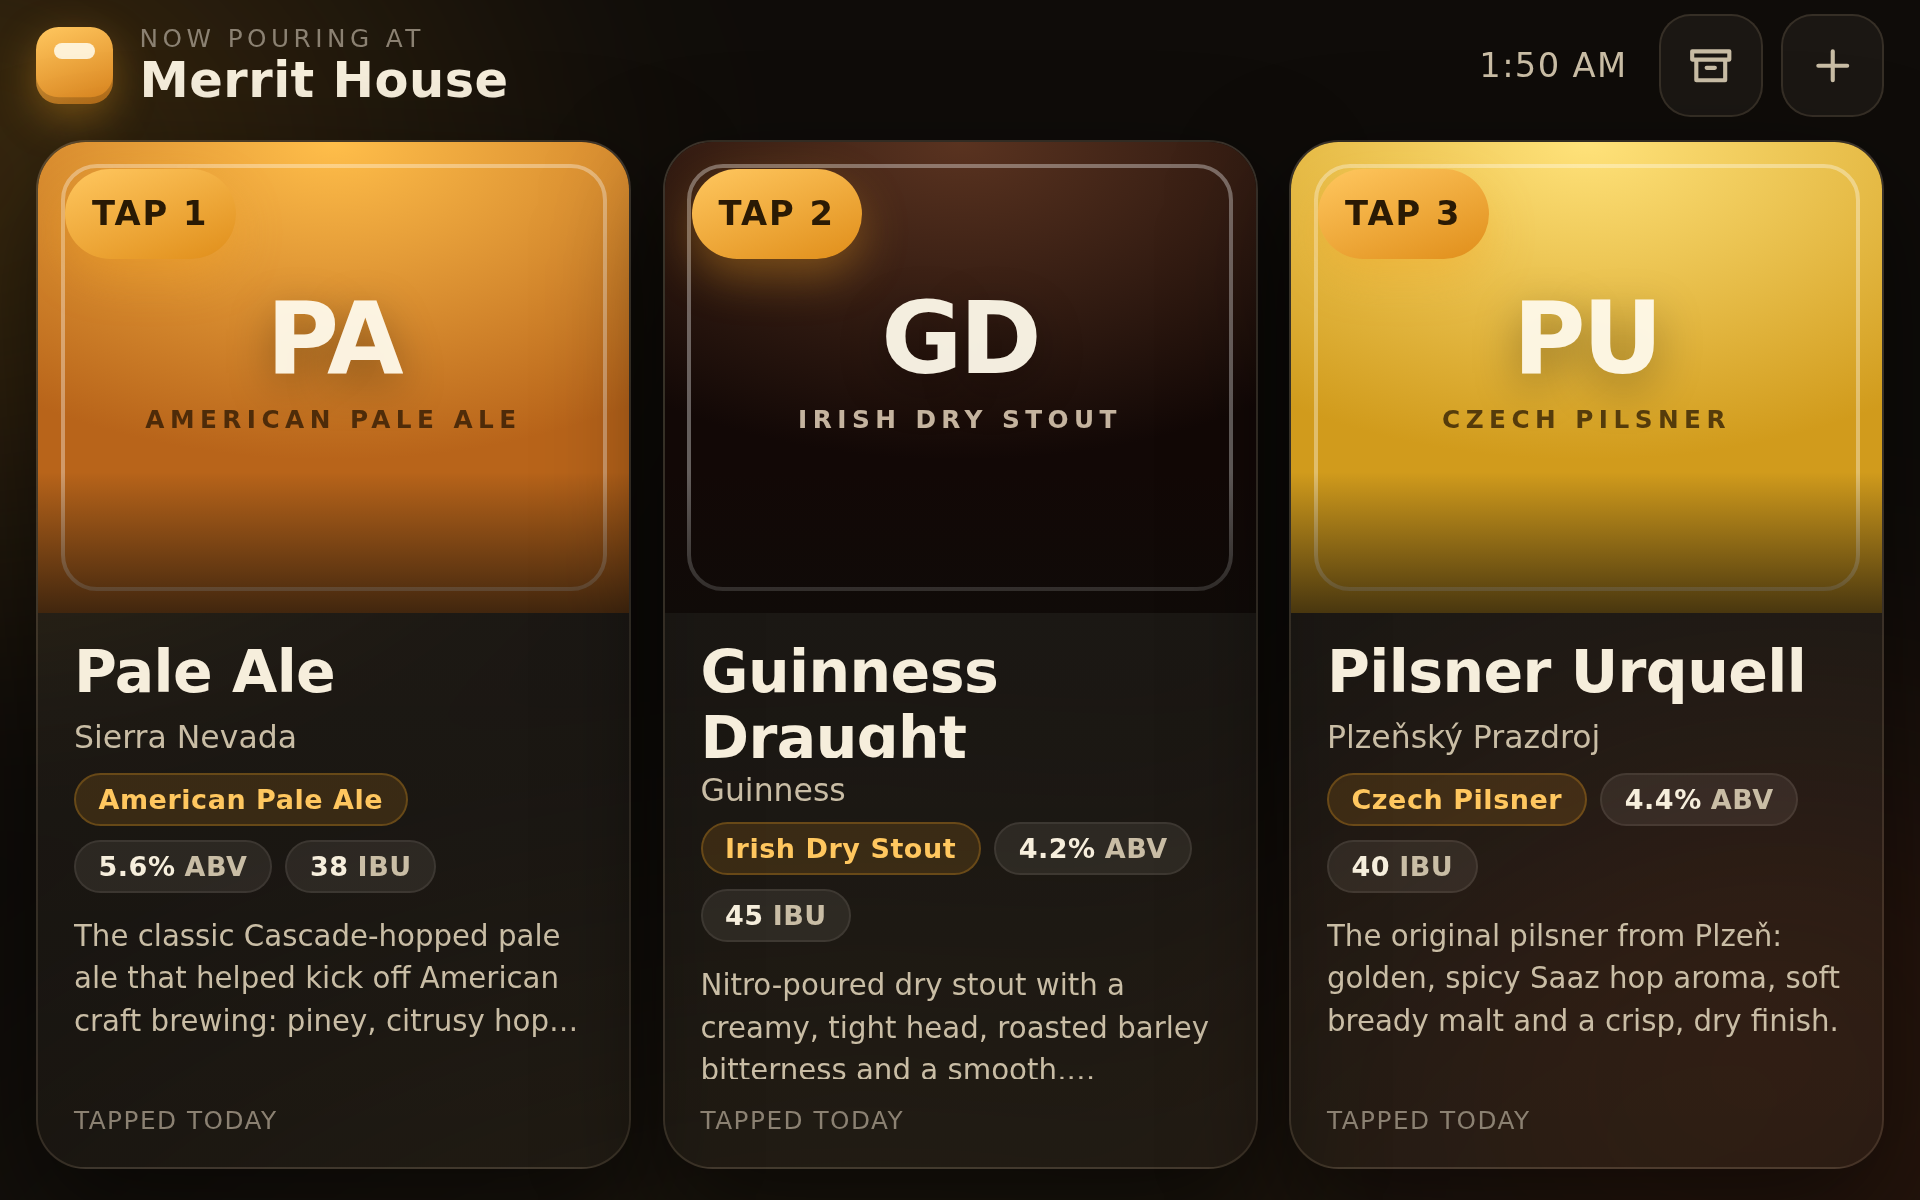
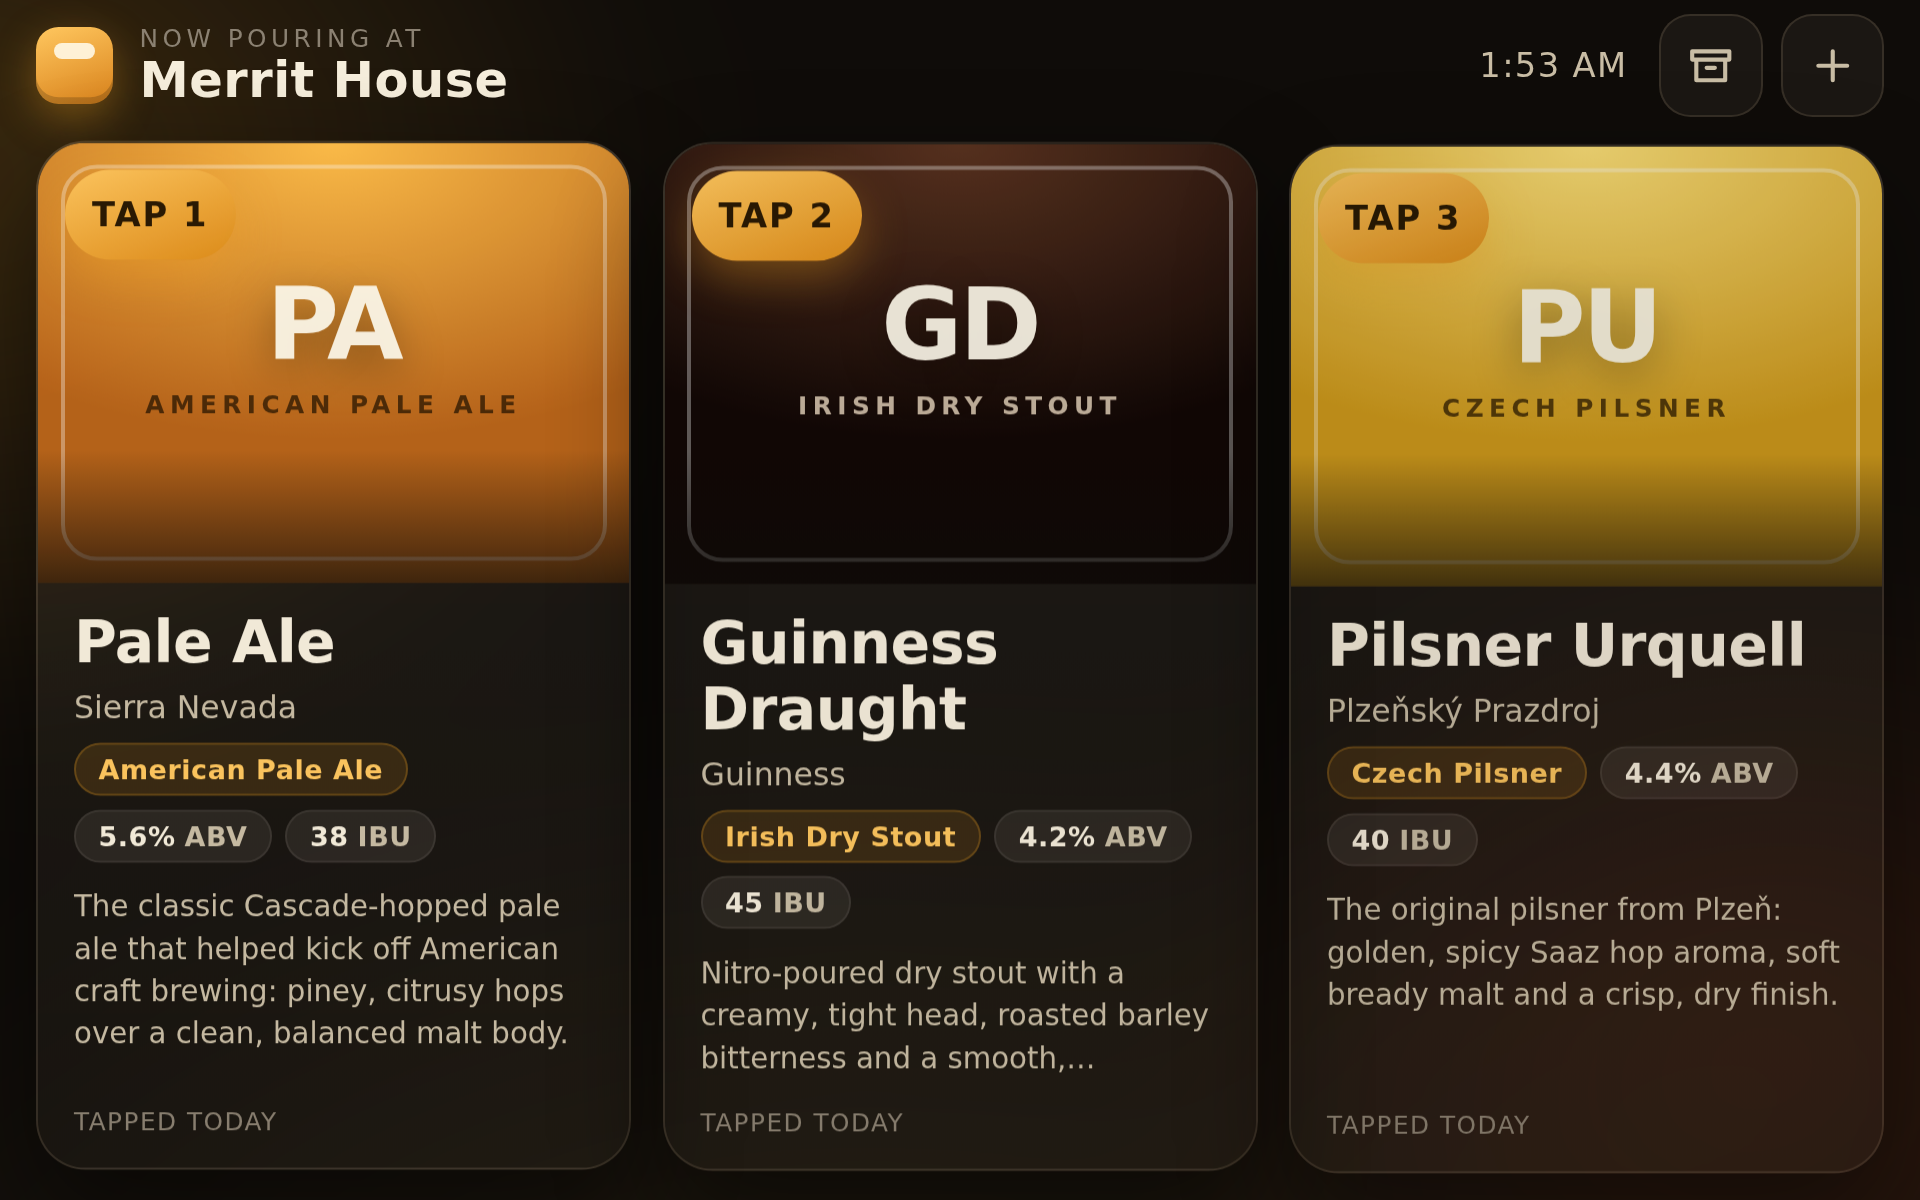
Fit tasting notes to card height on every panel size
Card body children no longer shrink, so a two-line beer name is never
clipped, and the board measures the space left in each card to show as
many whole lines of the description as fit. Trim the artwork band a
little so the 720p Touch Display 2 gets more text.

Claude-Session: https://claude.ai/code/session_0152Mijo1nViZXFYmyiPbihe

diff --git a/taplist/static/style.css b/taplist/static/style.css
@@ -40,8 +40,6 @@
 @media (min-width: 1800px) and (min-height: 1000px) { :root { --ui-scale: 2.25; } }
 @media (min-width: 2400px) and (min-height: 1300px) { :root { --ui-scale: 3; } }
 body { zoom: var(--ui-scale); }
-/* 16:10 panels (10" Touch Display 2) have spare height: show more of the tasting note. */
-@media (min-width: 1800px) and (min-height: 1000px) { .tap-desc { -webkit-line-clamp: 5; } }
 
 html, body {
   margin: 0;
@@ -160,7 +158,7 @@ svg { fill: none; stroke: currentColor; stroke-width: 2; stroke-linecap: round; 
 
 .tap-art {
   position: relative;
-  flex: 0 0 46%;
+  flex: 0 0 43%;
   min-height: 120px;
   overflow: hidden;
   background: #17120e;
@@ -201,6 +199,7 @@ svg { fill: none; stroke: currentColor; stroke-width: 2; stroke-linecap: round; 
   padding: 12px 16px 14px;
   display: flex; flex-direction: column; gap: 6px;
 }
+.tap-body > * { flex: none; }
 .tap-name {
   margin: 0;
   font-size: clamp(18px, 2.6vw, 26px);
@@ -222,8 +221,9 @@ svg { fill: none; stroke: currentColor; stroke-width: 2; stroke-linecap: round; 
 .tap-desc {
   margin: 4px 0 0; color: var(--ink-2); font-size: 13px; line-height: 1.45;
   display: -webkit-box; -webkit-line-clamp: 3; -webkit-box-orient: vertical; overflow: hidden;
+  /* app.js raises/lowers the clamp to however many whole lines fit the card */
 }
-.tap-since { margin-top: auto; padding-top: 6px; font-size: 11px; color: var(--ink-3); letter-spacing: 0.06em; text-transform: uppercase; }
+.tap-since { margin-top: auto; padding-top: 4px; font-size: 11px; color: var(--ink-3); letter-spacing: 0.06em; text-transform: uppercase; }
 
 .tap.empty { justify-content: center; align-items: center; border-style: dashed; background: rgba(255, 244, 224, 0.02); box-shadow: none; }
 .tap.empty .tap-badge { position: static; margin-bottom: 18px; }

diff --git a/taplist/static/app.js b/taplist/static/app.js
@@ -133,7 +133,30 @@
         </div>
       </button>`;
     }).join("");
+    fitDescriptions();
   }
+
+  // Show as many whole lines of the tasting note as the card has room for.
+  function fitDescriptions() {
+    board.querySelectorAll(".tap-body").forEach((body) => {
+      const desc = body.querySelector(".tap-desc");
+      if (!desc) return;
+      const bodyStyle = getComputedStyle(body);
+      const descStyle = getComputedStyle(desc);
+      const lineHeight = parseFloat(descStyle.lineHeight) || 19;
+      const gap = parseFloat(bodyStyle.rowGap) || 0;
+      let used = parseFloat(bodyStyle.paddingTop) + parseFloat(bodyStyle.paddingBottom) + parseFloat(descStyle.marginTop);
+      for (const child of body.children) {
+        if (child !== desc) used += child.offsetHeight;
+        used += gap;
+      }
+      used -= gap;
+      const lines = Math.floor((body.clientHeight - used) / lineHeight);
+      desc.style.webkitLineClamp = String(Math.max(1, lines));
+    });
+  }
+  let resizeTimer = null;
+  window.addEventListener("resize", () => { clearTimeout(resizeTimer); resizeTimer = setTimeout(fitDescriptions, 150); });
 
   async function loadState() {
     try {
